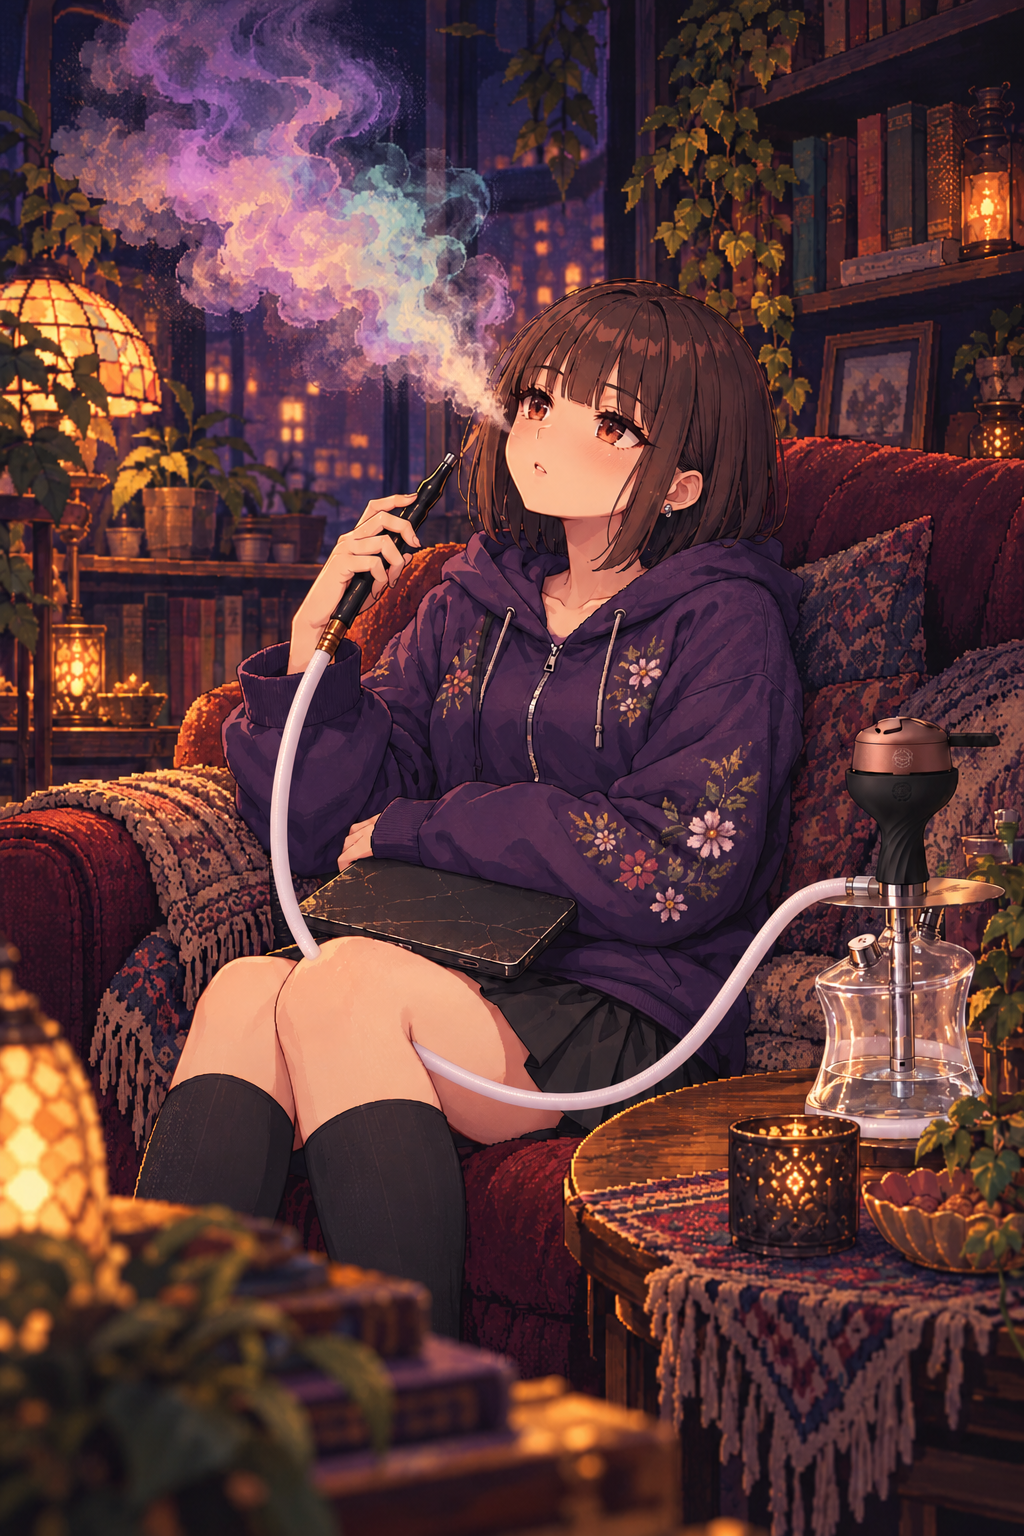
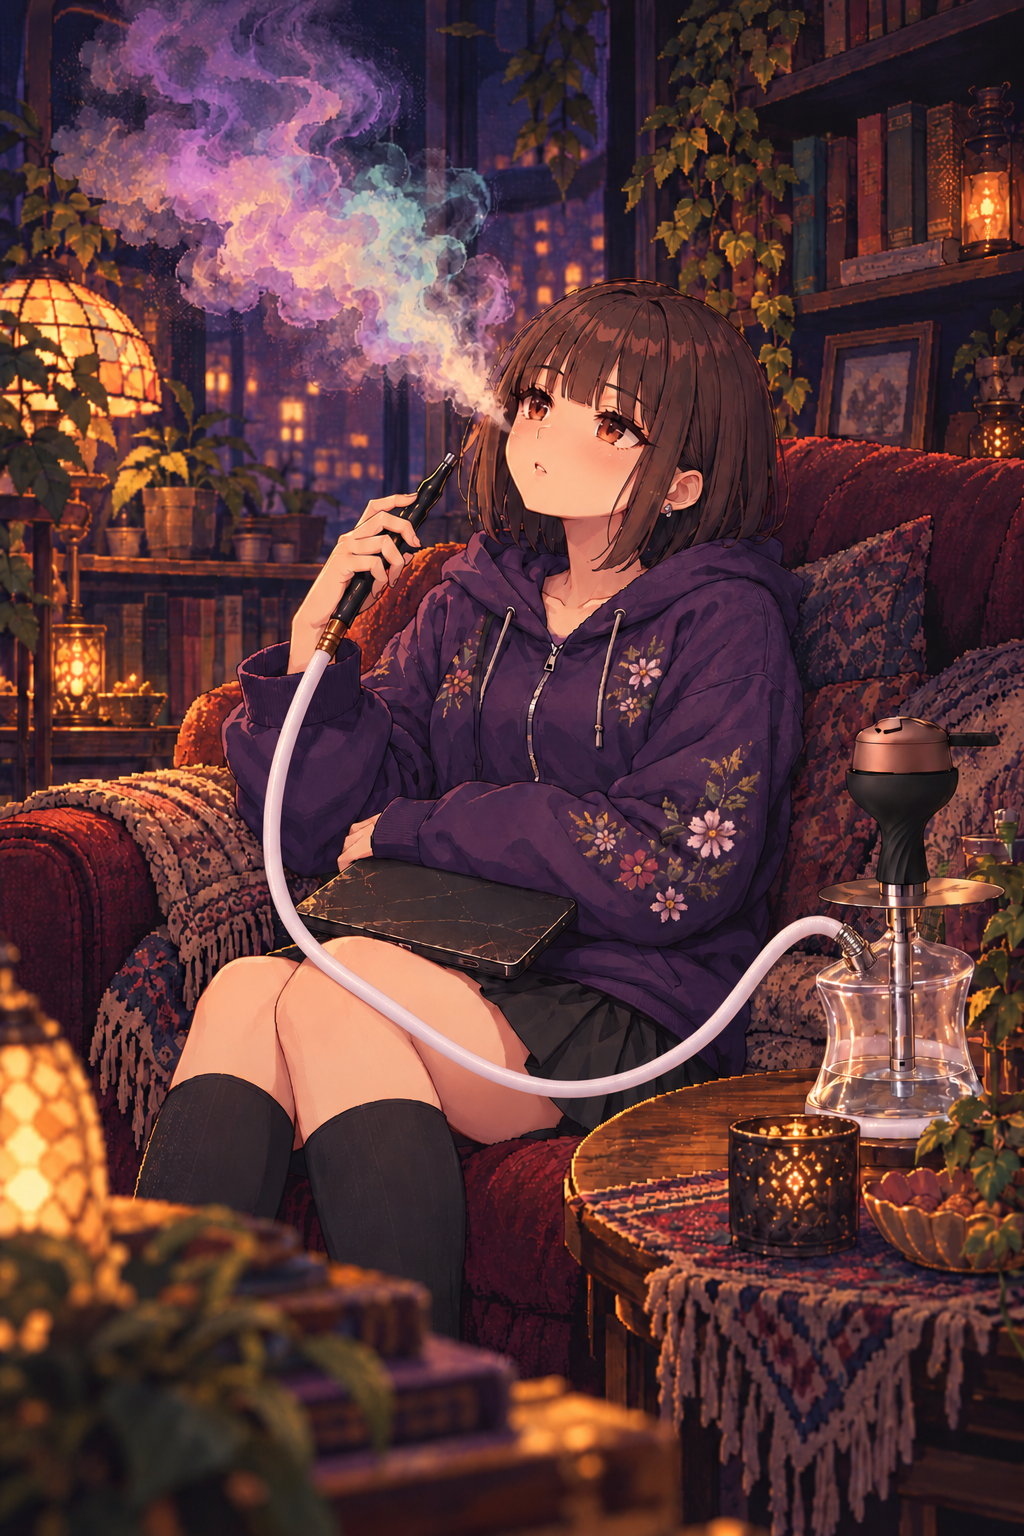
art: save minto title variants and correct tsumugi hookah hose

diff --git a/docs/asset_gen_prompts.md b/docs/asset_gen_prompts.md
@@ -1,5 +1,7 @@
 # 画像生成プロンプト集（codex用）— シーシャ作りパート＋立ち絵
 
+> 2026-10-08 TA01〜07: [ヒロイン5人×3種類のタイトル用アート比較](../asset_sources/title-art/heroine-concepts-v1-20261008/README.md)と各 `.prompt.txt`。採用済み立ち絵を第一参照、現在のタイトル絵を画風のみの参照とする。シーシャ案はメーカー実物写真を併用し、ハガルの上に閉じたHMD・その内側に炭、台の側面から手元へ1本のホースを描く。残りは本人らしい日常や趣味。15枚を独立した縦2:3の原画で保存し、タイトルへの採用は別途扱う。
+
 > 2026-10-08 CI58〜61: 採用登場背景の修正は[アダム・はじめの修正版](../asset_sources/character-intros/adam-hajime-v4-20261008/README.md)を参照。[アダム](../asset_sources/character-intros/adam-hajime-v4-20261008/adam/prompt.txt)は葉・花を除いて二つのリンゴと蛇・古い書物風の装飾、[はじめ](../asset_sources/character-intros/adam-hajime-v4-20261008/hajime/prompt.txt)はシーシャ本体・ホース・マウスピースを除く。人物は再生成せず、文言は正本データを使う。
 
 > 2026-10-08 CI57: 最新の検討案は[紫系のシンプルで抽象的な3案](../asset_sources/transitions/concepts-v5-minimal-purple-20261008/README.md)と[保存済みプロンプト](../asset_sources/transitions/concepts-v5-minimal-purple-20261008/prompt.txt)。紫と淡いラベンダーを中心に少数の曲線・面・余白へ絞り、一筆の煙／丸い波／余白が開くを比較。網点や細かな装飾の多い前案は履歴。今回は静止モックアップのみ。
